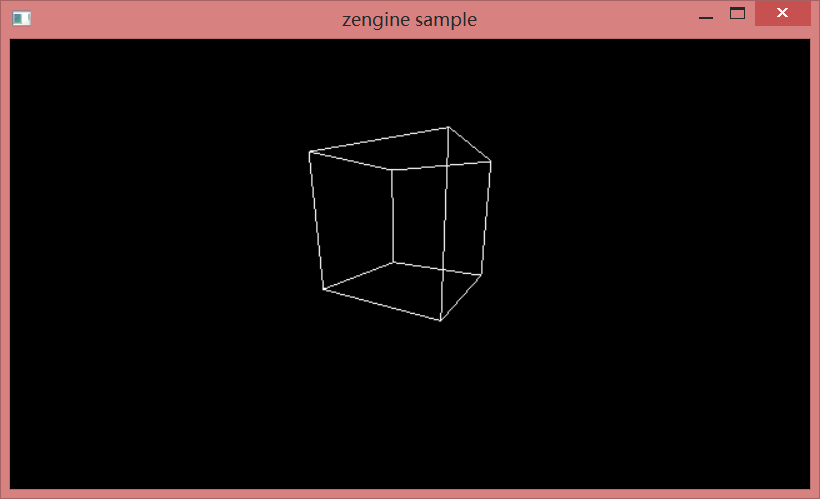
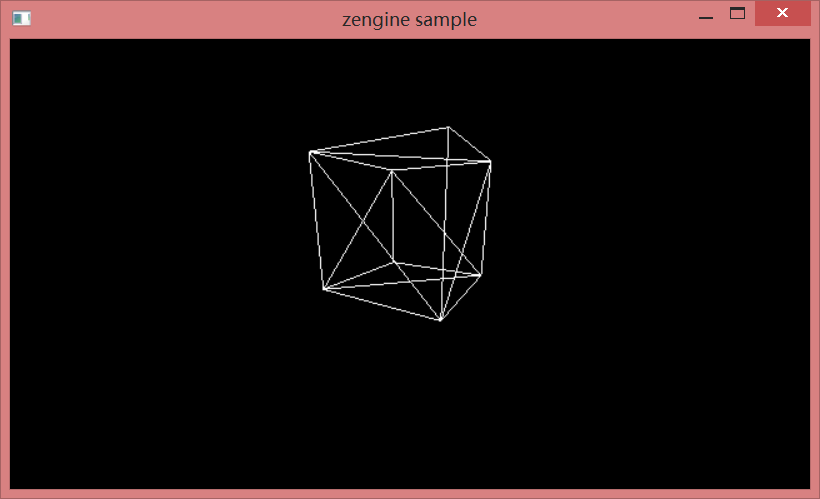
添加画三角函数

diff --git a/zengine/src/core/window.cpp b/zengine/src/core/window.cpp
@@ -6,6 +6,7 @@
 #include "../math/line.hpp"
 
 std::unique_ptr<zengine::window> WINDOW;
+zengine::modelPtr MODEL;
 
 namespace
 {
@@ -44,8 +45,6 @@ namespace
 
 namespace
 {
-	zengine::modelPtr MODEL;
-
 	auto drawPixel = [](const zengine::vector3& p, const zengine::vector4& color)
 	{
 		glBegin(GL_POINTS);
@@ -56,12 +55,6 @@ namespace
 	auto drawLine = [](const zengine::vector3& p1,
 						const zengine::vector3& p2,
 						const zengine::vector4& color){
-		//glLineWidth(1.0f);
-		//glBegin(GL_LINES);
-		//glColor3f(color.x_, color.y_, color.z_);
-		//glVertex3f(p1.x_, p1.y_, p1.z_);
-		//glVertex3f(p2.x_, p2.y_, p2.z_);
-		//glEnd();
 		auto start = p1, end = p2;
 		auto xrange = std::fabs(end.x_ - start.x_);
 		auto yrange = std::fabs(end.y_ - start.y_);
@@ -88,6 +81,14 @@ namespace
 			}
 		}
 	};
+	auto drawTriangle = [](const zengine::vector3& p1, 
+							const zengine::vector3& p2, 
+							const zengine::vector3& p3, 
+							const zengine::vector4& color){
+		drawLine(p1, p2, color);
+		drawLine(p2, p3, color);
+		drawLine(p3, p1, color);
+	};
 	float zinterpolate(float z1, float z2, float t)
 	{
 		return z1 * (1 - t) + z2 * t;
@@ -98,11 +99,6 @@ namespace
 		MODEL->clear();
 		WINDOW->update();
 		const auto& screen = MODEL->modelInScreen();
-		const std::pair<int, int> indicesPairs[] = {
-			{ 0, 3 }, { 0, 1 }, { 0, 4 }, { 1, 2 },
-			{ 1, 5 }, { 2, 3 }, { 2, 6 }, { 3, 7 },
-			{ 4, 5 }, { 4, 7 }, { 5, 6 }, { 6, 7 },
-		};
 		//// fill zbuffer
 		//for (const auto& pair : indicesPairs)
 		//{
@@ -121,9 +117,24 @@ namespace
 		//	}
 		//}
 
-		for (const auto& pair : indicesPairs)
+		//const std::pair<int, int> indicesPairs[] = {
+		//	{ 0, 3 }, { 0, 1 }, { 0, 4 }, { 1, 2 },
+		//	{ 1, 5 }, { 2, 3 }, { 2, 6 }, { 3, 7 },
+		//	{ 4, 5 }, { 4, 7 }, { 5, 6 }, { 6, 7 },
+		//};
+		//for (const auto& pair : indicesPairs)
+		//{
+		//	drawLine(screen[pair.first], screen[pair.second], zengine::white);
+		//}
+
+		const std::vector<int> indicesVectors[] = {
+			{ 0, 1, 3 }, { 1, 2, 3 }, { 1, 3, 4 }, { 3, 4, 7 }, 
+			{ 2, 3, 7 }, { 2, 6, 7 }, { 1, 2, 5 }, { 2, 5, 6 }, 
+			{ 0, 1, 4 }, { 1, 4, 5 }, { 4, 5, 7 }, { 5, 6, 7 },
+		};
+		for (const auto& v3 : indicesVectors)
 		{
-			drawLine(screen[pair.first], screen[pair.second], zengine::white);
+			drawTriangle(screen[v3[0]], screen[v3[1]], screen[v3[2]], zengine::white);
 		}
 		glFlush();
 	};
